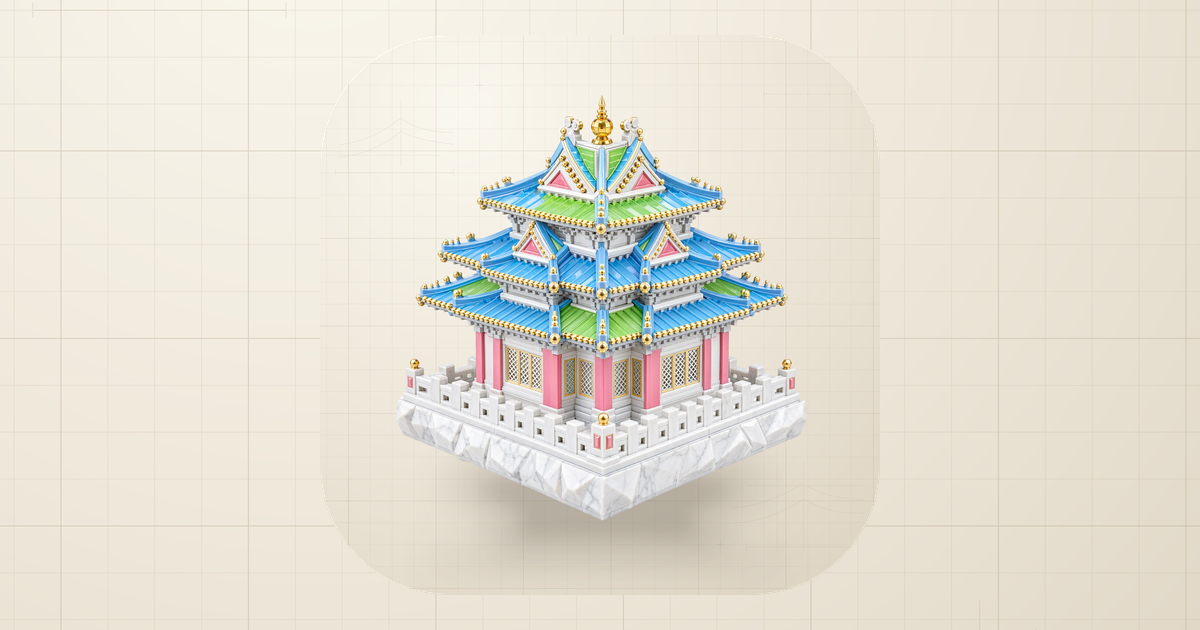
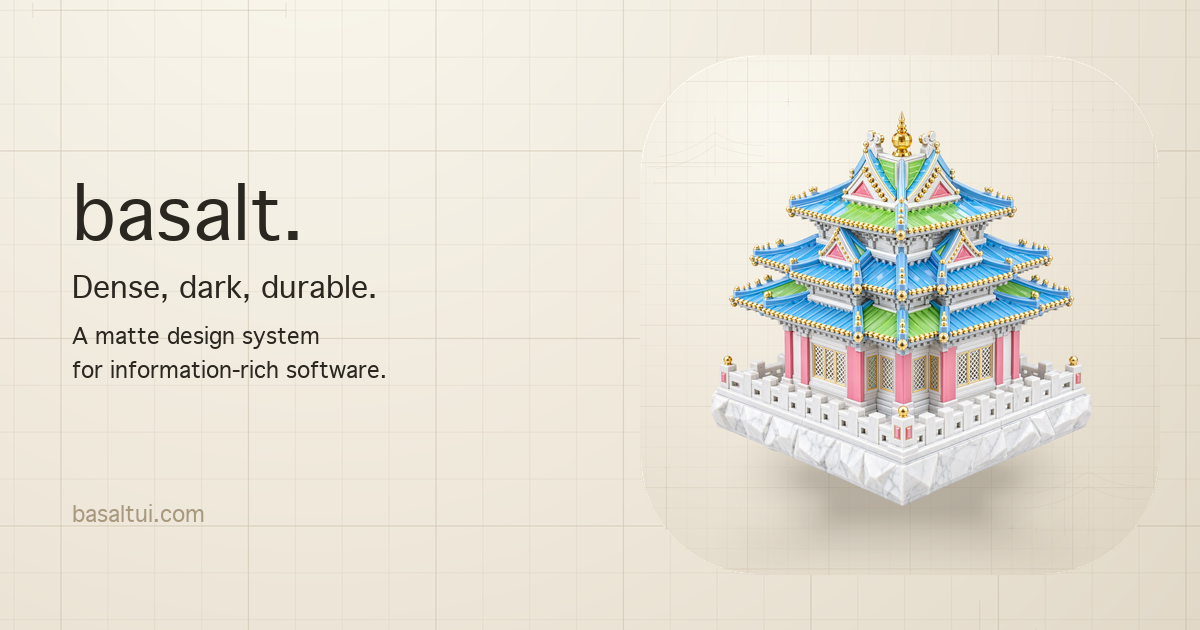
feat: compose social card with wordmark

diff --git a/scripts/generate-brand.py b/scripts/generate-brand.py
@@ -3,7 +3,7 @@ from pathlib import Path
 from base64 import b64encode
 import json
 
-from PIL import Image, ImageOps, __version__ as pillow_version
+from PIL import Image, ImageDraw, ImageFont, ImageOps, __version__ as pillow_version
 
 
 root = Path(__file__).resolve().parents[1]
@@ -54,8 +54,27 @@ save(foreground, "favicon.ico", "transparent browser mark",
 save(square.resize((180, 180), Image.Resampling.LANCZOS).convert("RGB"),
      "apple-touch-icon.png", "opaque square platform presentation")
 social = ImageOps.fit(background, (1200, 630), Image.Resampling.LANCZOS)
-social.alpha_composite(rounded.resize((560, 560), Image.Resampling.LANCZOS), (320, 35))
-save(social.convert("RGB"), "opengraph-image.png", "large rounded presentation on its own field")
+social.alpha_composite(rounded.resize((520, 520), Image.Resampling.LANCZOS), (640, 55))
+draw = ImageDraw.Draw(social)
+font_candidates = [
+    "/System/Library/Fonts/Geneva.ttf",
+    "/Library/Fonts/Arial Unicode.ttf",
+    "/usr/share/fonts/truetype/dejavu/DejaVuSans.ttf",
+]
+font_path = next((candidate for candidate in font_candidates if Path(candidate).exists()), None)
+if font_path is None:
+    raise FileNotFoundError("No sans-serif TTF available for the social card")
+title_font = ImageFont.truetype(font_path, 72)
+tag_font = ImageFont.truetype(font_path, 30)
+body_font = ImageFont.truetype(font_path, 22)
+ink = (42, 38, 32, 255)
+muted = (168, 152, 126, 255)
+draw.text((72, 168), "basalt.", font=title_font, fill=ink)
+draw.text((72, 268), "Dense, dark, durable.", font=tag_font, fill=ink)
+draw.text((72, 322), "A matte design system", font=body_font, fill=ink)
+draw.text((72, 356), "for information-rich software.", font=body_font, fill=ink)
+draw.text((72, 500), "basaltui.com", font=body_font, fill=muted)
+save(social.convert("RGB"), "opengraph-image.png", "wordmark and corner tower on the pale engineering field")
 
 package_mark = root / "packages/basalt/src/assets/brand-mark.ts"
 package_mark.parent.mkdir(parents=True, exist_ok=True)

diff --git a/assets/brand/README.md b/assets/brand/README.md
@@ -12,7 +12,7 @@ Hanbaiyu marble Forbidden City corner tower with candy-colored roofs. Native 204
 | Library `BasaltMark` and default `LoadingScreen` | Embedded 128 px transparent PNG in `packages/basalt/src/assets/brand-mark.ts` | Preserve the SVG component interface; the embedded image needs no consuming-app asset path |
 | Browser favicon | `public/favicon.png`, `public/favicon.ico` | Transparent 32 px PNG; ICO includes 16/24/32/48/64 px |
 | Apple touch | `public/apple-touch-icon.png` | Opaque square 180 px presentation |
-| Social / Open Graph | `public/opengraph-image.png` | 1200 × 630 presentation |
+| Social / Open Graph | `public/opengraph-image.png` | 1200 × 630 wordmark, tagline, domain and corner tower on the pale field |
 
 Root `logo.png` is the exact selected transparent master. The square and rounded presentations remain separate. Reflections, material texture and internal lighting belong to the solid artwork; the engineering paper, projected shadows and external emission remain outside small app/browser marks. All sizes preserve the whole subject's proportions and placement.
 

diff --git a/CHANGELOG.md b/CHANGELOG.md
@@ -8,6 +8,7 @@
 
 ### Changed
 - Social metadata no longer loads from the Hexly share API; Open Graph now self-hosts on https://basaltui.com.
+- Social card places the `basalt.` wordmark beside the corner tower on the pale engineering field.
 
 ## [2.1.2] - 2026-09-08
 
